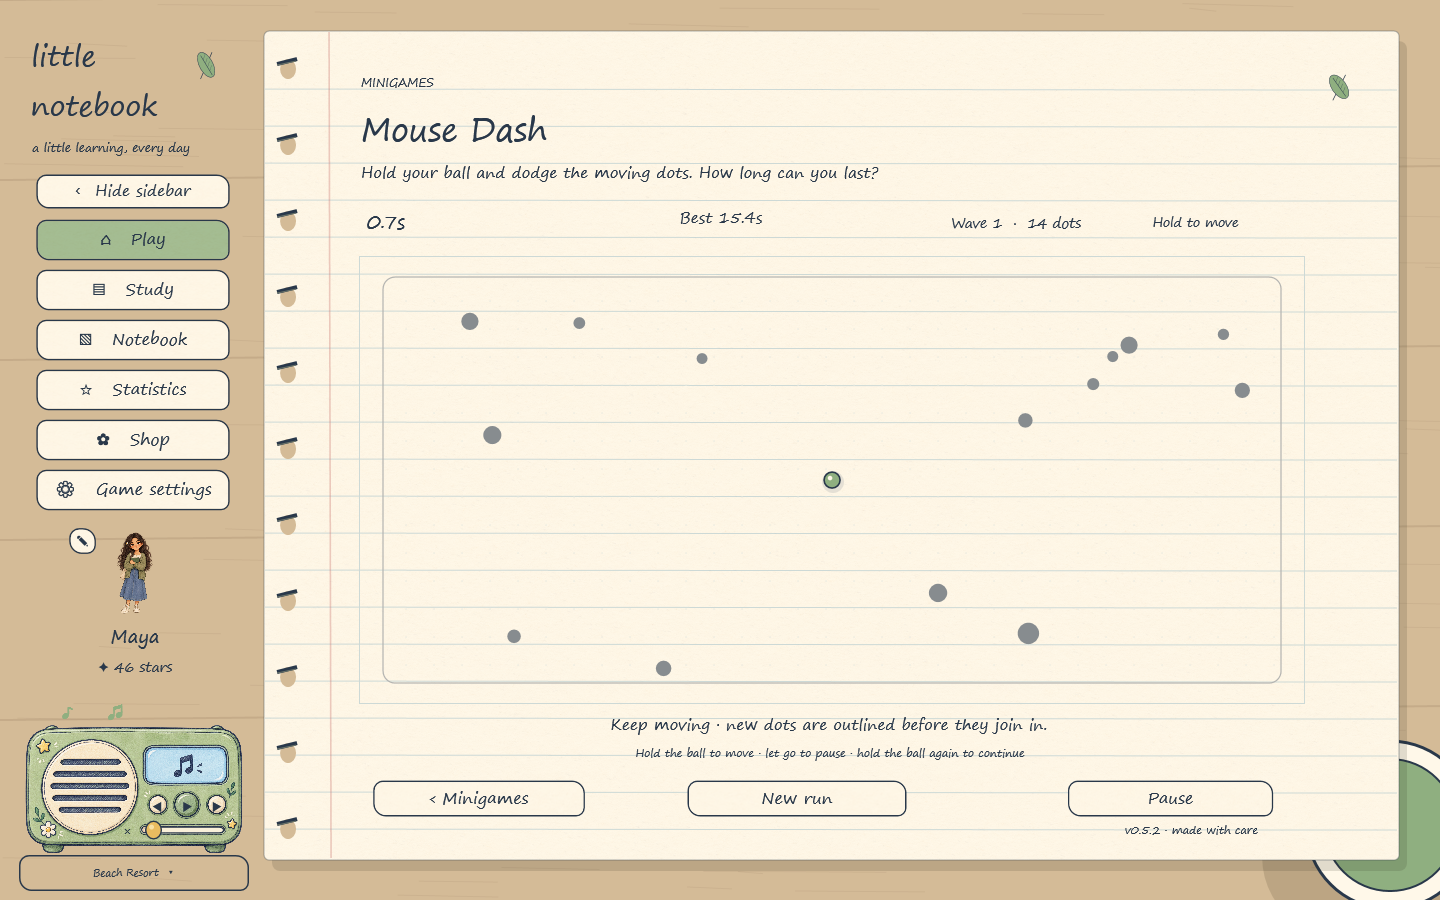
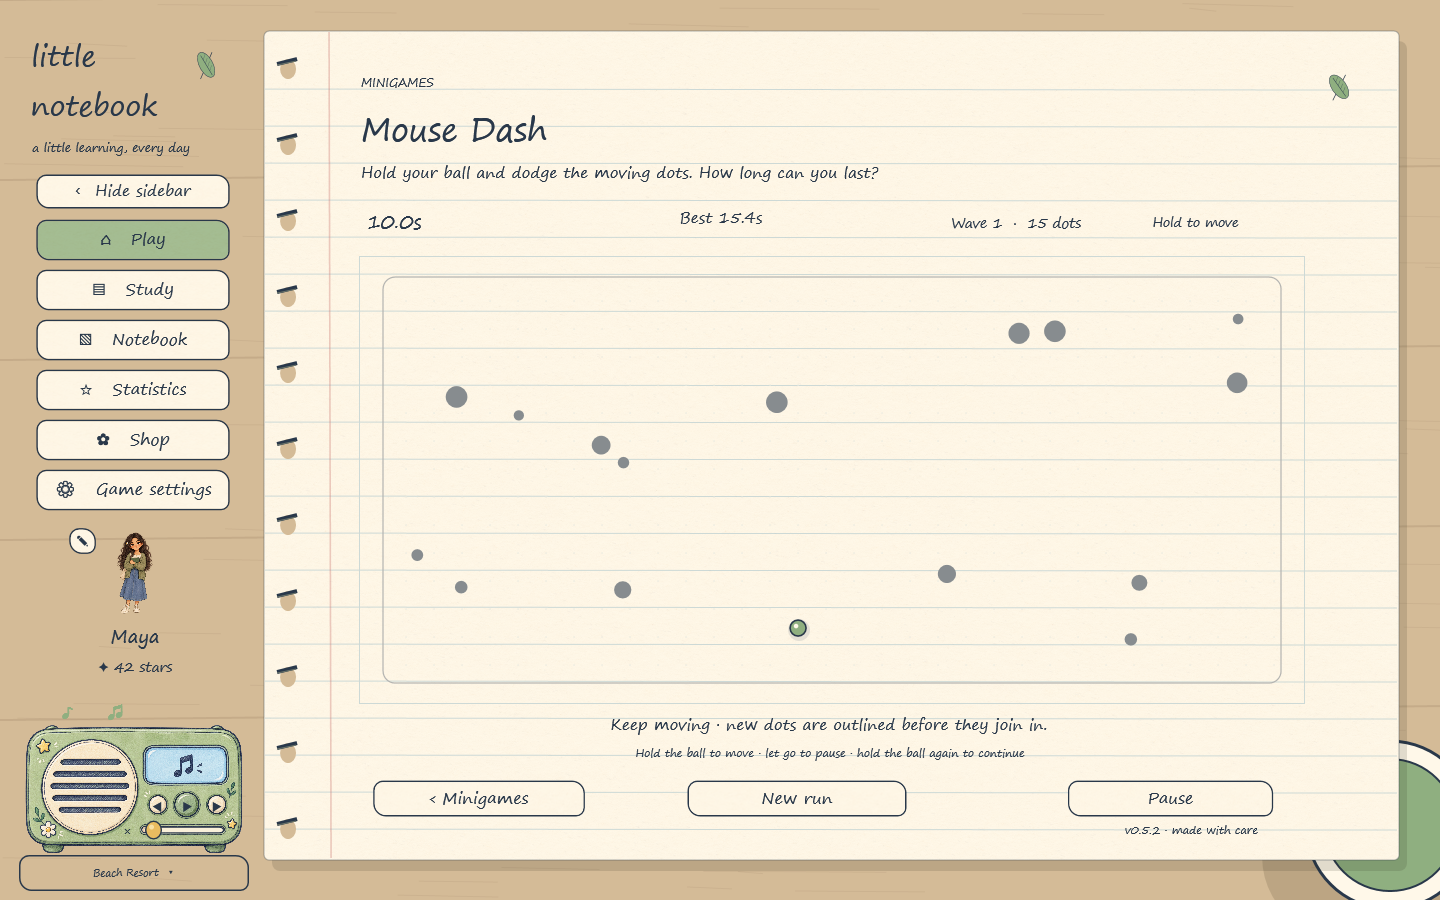
Increase Mouse Dash speed quickly while adding dots gradually

diff --git a/src/MouseDash.cs b/src/MouseDash.cs
@@ -9,10 +9,11 @@ namespace LittleNotebook {
  public sealed class MouseDashBoard {
   public const double Width=900,Height=408,PlayerRadius=8;
   public readonly List<DashObstacle> Obstacles=new List<DashObstacle>();
-  readonly Random random;double accumulator,spawnAt=5;
+  readonly Random random;double accumulator,spawnAt=8;
   public double X=Width/2,Y=Height/2,Seconds;public bool Started,Hit;
   public DashObstacle Collision;
   public int Wave{get{return 1+(int)(Seconds/15);}}
+  public static double SpeedScale(double seconds){seconds=Math.Max(0,seconds);return 1+Math.Min(3,seconds*.12)+Math.Min(2,Math.Max(0,seconds-25)*.025);}
   public MouseDashBoard(int seed){random=new Random(seed);}
   public static double Clamp(double value,double min,double max){return Math.Max(min,Math.Min(max,value));}
   public static bool SweptHit(double ax,double ay,double bx,double by,double radius){
@@ -24,8 +25,8 @@ namespace LittleNotebook {
    X=Clamp(x,PlayerRadius+3,Width-PlayerRadius-3);Y=Clamp(y,PlayerRadius+3,Height-PlayerRadius-3);Started=true;
    for(int i=0;i<14;i++){
     var dot=new DashObstacle{Radius=5+random.NextDouble()*6};
-    do{dot.X=dot.Radius+random.NextDouble()*(Width-2*dot.Radius);dot.Y=dot.Radius+random.NextDouble()*(Height-2*dot.Radius);}while((dot.X-X)*(dot.X-X)+(dot.Y-Y)*(dot.Y-Y)<140*140);
-    double angle=random.NextDouble()*Math.PI*2,speed=48+random.NextDouble()*34;dot.VX=Math.Cos(angle)*speed;dot.VY=Math.Sin(angle)*speed;Obstacles.Add(dot);
+    do{dot.X=dot.Radius+random.NextDouble()*(Width-2*dot.Radius);dot.Y=dot.Radius+random.NextDouble()*(Height-2*dot.Radius);}while((dot.X-X)*(dot.X-X)+(dot.Y-Y)*(dot.Y-Y)<160*160);
+    double angle=random.NextDouble()*Math.PI*2,speed=96+random.NextDouble()*42;dot.VX=Math.Cos(angle)*speed;dot.VY=Math.Sin(angle)*speed;Obstacles.Add(dot);
    }return true;
   }
   public bool Move(double x,double y){
@@ -45,13 +46,13 @@ namespace LittleNotebook {
    var dot=new DashObstacle{Radius=6+random.NextDouble()*6,Warning=.95};int edge=random.Next(4);double inset=dot.Radius+4;
    dot.X=edge==1?Width-inset:edge==3?inset:inset+random.NextDouble()*(Width-2*inset);
    dot.Y=edge==0?inset:edge==2?Height-inset:inset+random.NextDouble()*(Height-2*inset);
-   double tx=90+random.NextDouble()*(Width-180),ty=50+random.NextDouble()*(Height-100),dx=tx-dot.X,dy=ty-dot.Y,length=Math.Sqrt(dx*dx+dy*dy),speed=48+random.NextDouble()*34;
+   double tx=90+random.NextDouble()*(Width-180),ty=50+random.NextDouble()*(Height-100),dx=tx-dot.X,dy=ty-dot.Y,length=Math.Sqrt(dx*dx+dy*dy),speed=96+random.NextDouble()*42;
    dot.VX=dx/length*speed;dot.VY=dy/length*speed;Obstacles.Add(dot);
   }
   public void Tick(double seconds){
    if(!Started||Hit||seconds<=0||double.IsNaN(seconds)||double.IsInfinity(seconds))return;
    accumulator+=Math.Min(.1,seconds);const double step=1.0/120;
-   while(accumulator+1e-9>=step&&!Hit){accumulator-=step;Seconds+=step;double speed=1+Math.Min(1.65,Seconds/65);
+   while(accumulator+1e-9>=step&&!Hit){accumulator-=step;Seconds+=step;double speed=SpeedScale(Seconds);
     foreach(var dot in Obstacles){
      if(dot.Warning>0){dot.Warning=Math.Max(0,dot.Warning-step);continue;}
      double oldX=dot.X,oldY=dot.Y;dot.X+=dot.VX*speed*step;dot.Y+=dot.VY*speed*step;
@@ -59,7 +60,7 @@ namespace LittleNotebook {
      if(dot.Y<dot.Radius){dot.Y=2*dot.Radius-dot.Y;dot.VY=Math.Abs(dot.VY);}else if(dot.Y>Height-dot.Radius){dot.Y=2*(Height-dot.Radius)-dot.Y;dot.VY=-Math.Abs(dot.VY);}
      if(SweptHit(oldX-X,oldY-Y,dot.X-X,dot.Y-Y,PlayerRadius+dot.Radius)){Crash(dot);break;}
     }
-    if(!Hit&&Seconds>=spawnAt&&Obstacles.Count<38){Spawn();spawnAt+=Math.Max(1.6,4-Seconds/55);}
+    if(!Hit&&Seconds+1e-9>=spawnAt&&Obstacles.Count<32){Spawn();spawnAt+=8;}
    }
   }
  }

diff --git a/src/MouseDashTests.cs b/src/MouseDashTests.cs
@@ -7,7 +7,8 @@ namespace LittleNotebook {
   public static void Run(Action<bool,string> check){
    foreach(int seed in Enumerable.Range(1,30))foreach(var point in new[]{new Point(12,12),new Point(450,204),new Point(888,396)}){
     var board=new MouseDashBoard(seed);check(board.Begin(point.X,point.Y)&&board.Obstacles.Count==14,"Mouse Dash did not start with fourteen dots");
-    check(board.Obstacles.All(d=>Math.Pow(d.X-board.X,2)+Math.Pow(d.Y-board.Y,2)>=140*140),"Dot spawned too close to starting ball");
+    check(board.Obstacles.All(d=>Math.Pow(d.X-board.X,2)+Math.Pow(d.Y-board.Y,2)>=160*160),"Dot spawned too close to starting ball");
+    check(board.Obstacles.All(d=>Math.Sqrt(d.VX*d.VX+d.VY*d.VY)>=96&&Math.Sqrt(d.VX*d.VX+d.VY*d.VY)<=138),"Starting dots are below the intended pace");
     board.Tick(.1);check(!board.Hit,"Mouse Dash started with an unavoidable contact");check(!board.Begin(22,22),"Second start reset a live dash");
    }
    check(MouseDashBoard.SweptHit(-100,0,100,0,12),"Swept collision missed a crossing");check(!MouseDashBoard.SweptHit(-100,13,100,13,12),"Swept collision falsely hit a near miss");check(MouseDashBoard.SweptHit(0,0,0,0,12),"Stationary overlap missed");
@@ -25,8 +26,11 @@ namespace LittleNotebook {
     check(Math.Abs(fast.Seconds-slow.Seconds)<.00001&&fast.Obstacles.Count==slow.Obstacles.Count,"Mouse Dash depends on render rate");
     for(int i=0;i<fast.Obstacles.Count;i++){var a=fast.Obstacles[i];var b=slow.Obstacles[i];check(Math.Abs(a.X-b.X)<.00001&&Math.Abs(a.Y-b.Y)<.00001,"Dot trajectory depends on render rate");check(a.X>=a.Radius-.001&&a.X<=900-a.Radius+.001&&a.Y>=a.Radius-.001&&a.Y<=408-a.Radius+.001,"Moving dot escaped arena");}
    }
-   check(fast.Obstacles.Count==38&&fast.Wave==11&&!fast.Hit,"Survival progression was not capped or failed to grow");
-   var edge=new MouseDashBoard(26);edge.Begin(450,204);edge.X=edge.Y=-1000;for(int i=0;i<51;i++)edge.Tick(.1);var incoming=edge.Obstacles.Last();check(incoming.Warning>.7&&incoming.Warning<=.95,"New edge dot had no warning window");
+   check(fast.Obstacles.Count==32&&fast.Wave==11&&!fast.Hit,"Survival progression was not capped or failed to grow");
+   check(MouseDashBoard.SpeedScale(8)>=1.95&&MouseDashBoard.SpeedScale(15)>=2.8&&MouseDashBoard.SpeedScale(30)>4,"Mouse Dash speed does not rise fast enough");
+   double previous=0;for(int second=0;second<600;second++){double speed=MouseDashBoard.SpeedScale(second);check(speed>=previous&&speed<=6,"Mouse Dash speed reverses or grows without a bound");previous=speed;}
+   var edge=new MouseDashBoard(26);edge.Begin(450,204);edge.X=edge.Y=-1000;for(int i=0;i<79;i++)edge.Tick(.1);check(edge.Obstacles.Count==14,"Mouse Dash adds dots too quickly");edge.Tick(.1);check(edge.Obstacles.Count==15,"First extra dot did not join at eight seconds");edge.Tick(.1);var incoming=edge.Obstacles.Last();check(incoming.Warning>.7&&incoming.Warning<=.95,"New edge dot had no warning window");
+   for(int i=0;i<78;i++)edge.Tick(.1);check(edge.Obstacles.Count==15,"Mouse Dash second dot joined too soon");edge.Tick(.1);check(edge.Obstacles.Count==16,"Mouse Dash does not add one dot every eight seconds");
   }
  }
  public partial class MainWindow {

diff --git a/tools/build_release.py b/tools/build_release.py
@@ -53,7 +53,7 @@ for name,items in groups.items():
    for path,relative in items:z.write(path,relative)
   with ZipFile(target) as z:assert z.testzip() is None
  packages.append(dict(name=name,url=base+name,sha256=digest(target),size=target.stat().st_size))
-manifest=dict(version=args.version,repository='farhanr3001/little-notebook-game',notes='Fluid arrow exits, sampled piano song notes and full tune replays, grab cursor only during panning, paper backgrounds and larger minigame boards. Pulse Lock now uses E/click only, an untimed Ready state with a clear start prompt and a faster difficulty ramp. Stronger tile/lantern puzzles, buffered controls and Arabic text fixes. Ladybug Trail replaces Starlight Maze with smooth held movement and a ladybug-to-leaf goal. Saved progress is kept.',files=records,packs=packages)
+manifest=dict(version=args.version,repository='farhanr3001/little-notebook-game',notes='Fluid arrow exits, sampled piano song notes and full tune replays, grab cursor only during panning, paper backgrounds and larger minigame boards. Pulse Lock now uses E/click only, an untimed Ready state with a clear start prompt and a faster difficulty ramp. Stronger tile/lantern puzzles, buffered controls and Arabic text fixes. Ladybug Trail replaces Starlight Maze with smooth held movement and a ladybug-to-leaf goal. Mouse Dash gains speed rapidly while adding new dots more gradually. Saved progress is kept.',files=records,packs=packages)
 for dest in [payload/'payload-manifest.json',release/'update-manifest.json']:dest.write_text(json.dumps(manifest,ensure_ascii=False,indent=2),encoding='utf-8')
 assert not any('profile.json' in x['path'] or x['path'].startswith('data/') for x in records)
 print(f'PASS: {len(records)} managed files, {len(packages)} verified component packs. No user saves in payload.')
